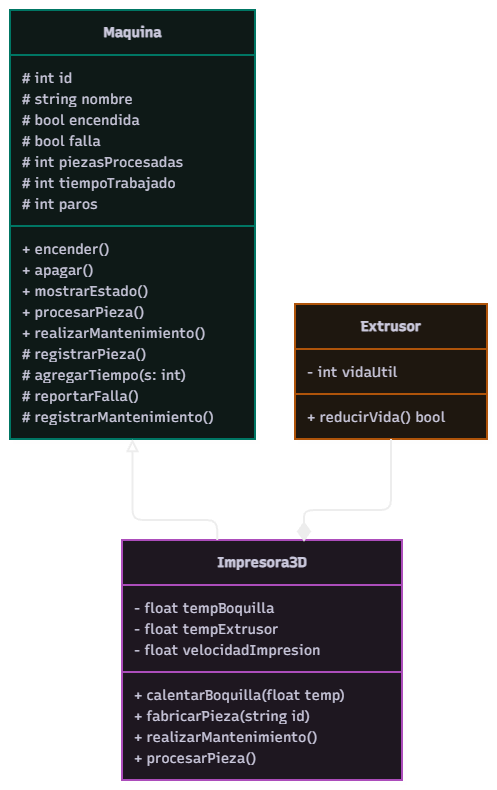
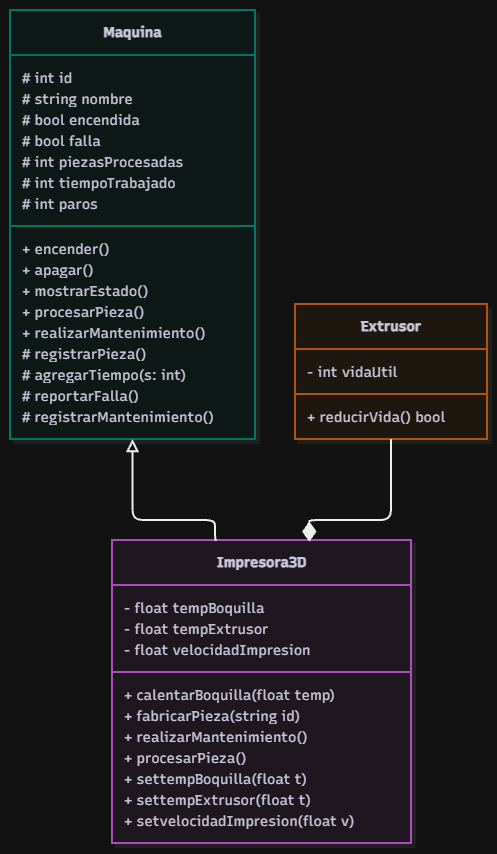
Update 3D printer documentation with enhanced attribute validation and improve quality control proposal description

diff --git a/docs/mejoras/26011/3DP_MEJORA.md b/docs/mejoras/26011/3DP_MEJORA.md
@@ -14,7 +14,7 @@ Es una mejora.
 
 **¿Qué observaste en la solución del equipo que dio origen a la propuesta?**
 
-Observé que la `Impresora3D` actual asume que si la temperatura es seteada y el extrusor tiene vida útil, la pieza se fabricará correctamente. Sin embargo, en la realidad, existen fallas comunes como el "atascamiento de filamento" (clogging) o fluctuaciones de temperatura que pueden arruinar una pieza sin que la máquina se "apague" o el componente "muera" técnicamente.
+Observé que la `Impresora3D` actual asume que si la temperatura es seteada y el extrusor tiene vida útil, la pieza se fabricará correctamente. Aunque ya se implementó una validación de rangos de seguridad en los métodos `set` para evitar temperaturas extremas o velocidades inválidas, la máquina sigue siendo 'ciega' a lo que ocurre durante el proceso. En la realidad, existen fallas comunes como el "atascamiento de filamento" (clogging) o fluctuaciones de temperatura que pueden arruinar una pieza sin que la máquina se "apague" o el componente "muera" técnicamente.
 
 **¿Qué mejora o qué corrige, y por qué vale la pena?**
 

diff --git a/docs/3DP_CLASE.md b/docs/3DP_CLASE.md
@@ -19,9 +19,9 @@ La función del extrusor es mover el material a traves de la boquilla caliente p
 
 **Atributos propios de tu clase y validación de cada uno:**
 
-- `tempBoquilla` (float): Temperatura de la boquilla; se valida que sea mayor a 0 y no exceda el límite del material (ej. 260°C).
-- `tempExtrusor` (float): Temperatura de control del bloque; validada para evitar sobrecalentamiento.
-- `velocidadImpresion` (float): Velocidad de avance; validada para que sea positiva, ya que define el tiempo de procesamiento.
+- `tempBoquilla` (float): Temperatura de la boquilla; se valida que esté entre 20°C y 300°C. Si el valor es inválido, se ajusta automáticamente al límite correspondiente para evitar daños.
+- `tempExtrusor` (float): Temperatura de control del bloque; validada entre 20°C y 250°C mediante un método set que fuerza el rango de seguridad.
+- `velocidadImpresion` (float): Velocidad de avance; validada para estar entre 0.1 m/s y 5.0 m/s, asegurando que la pieza se mueva a una velocidad realista y segura.
 
 **Métodos propios (los que la clase base no tiene):**
 
